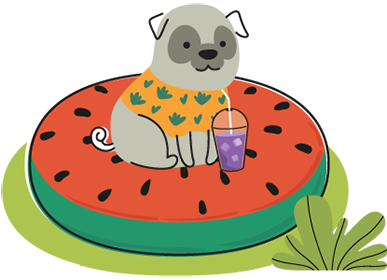
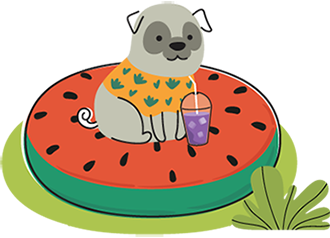
updates

diff --git a/h52123/index.html b/h52123/index.html
@@ -88,19 +88,19 @@ e.async=true;var t=document.getElementsByTagName("script")[0];t.parentNode.inser
     padding: 0 10px;
 }
 .watermelon-wrapper {
-    margin: -280px 0 0 250px;
-    position: relative;
+	margin: -238px 0 0 325px;
+	position: relative;
 }
 .floaters {
     max-width: 1200px;
     position: relative;
     margin: 0 auto;
-    min-height: 375px;
+    min-height: 425px;
 }
 .float-one {
     position: absolute;
     left: 20px;
-    top: 90px;
+    top: 120px;
     animation: orbit-one 15s linear infinite;
 }
 .float-two {
@@ -112,7 +112,7 @@ e.async=true;var t=document.getElementsByTagName("script")[0];t.parentNode.inser
 .float-three {
     position: absolute;
     right: 20px;
-    top: 150px;
+    top: 170px;
     animation: orbit-three 10s linear infinite;
 }
 @keyframes orbit-one {
